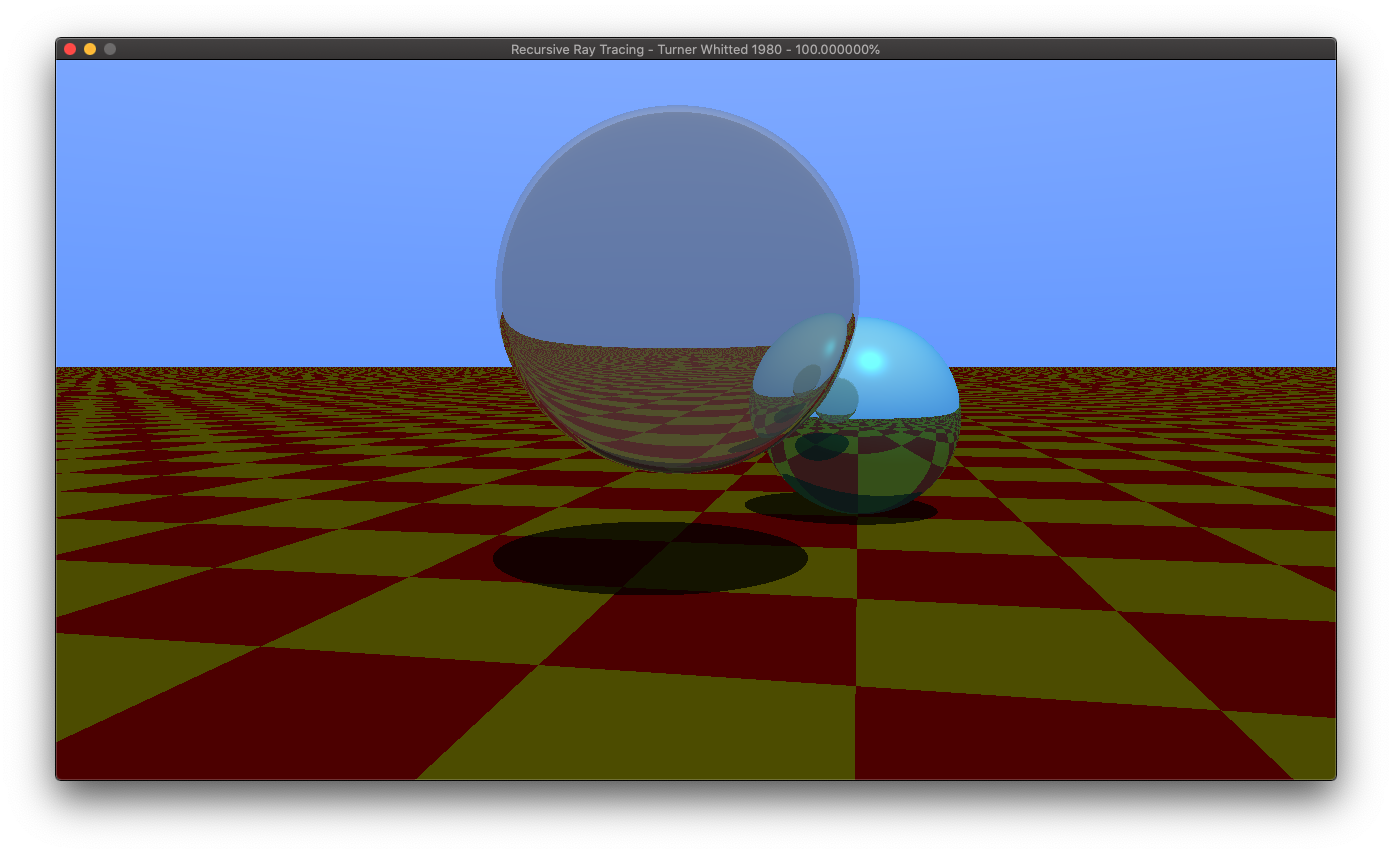
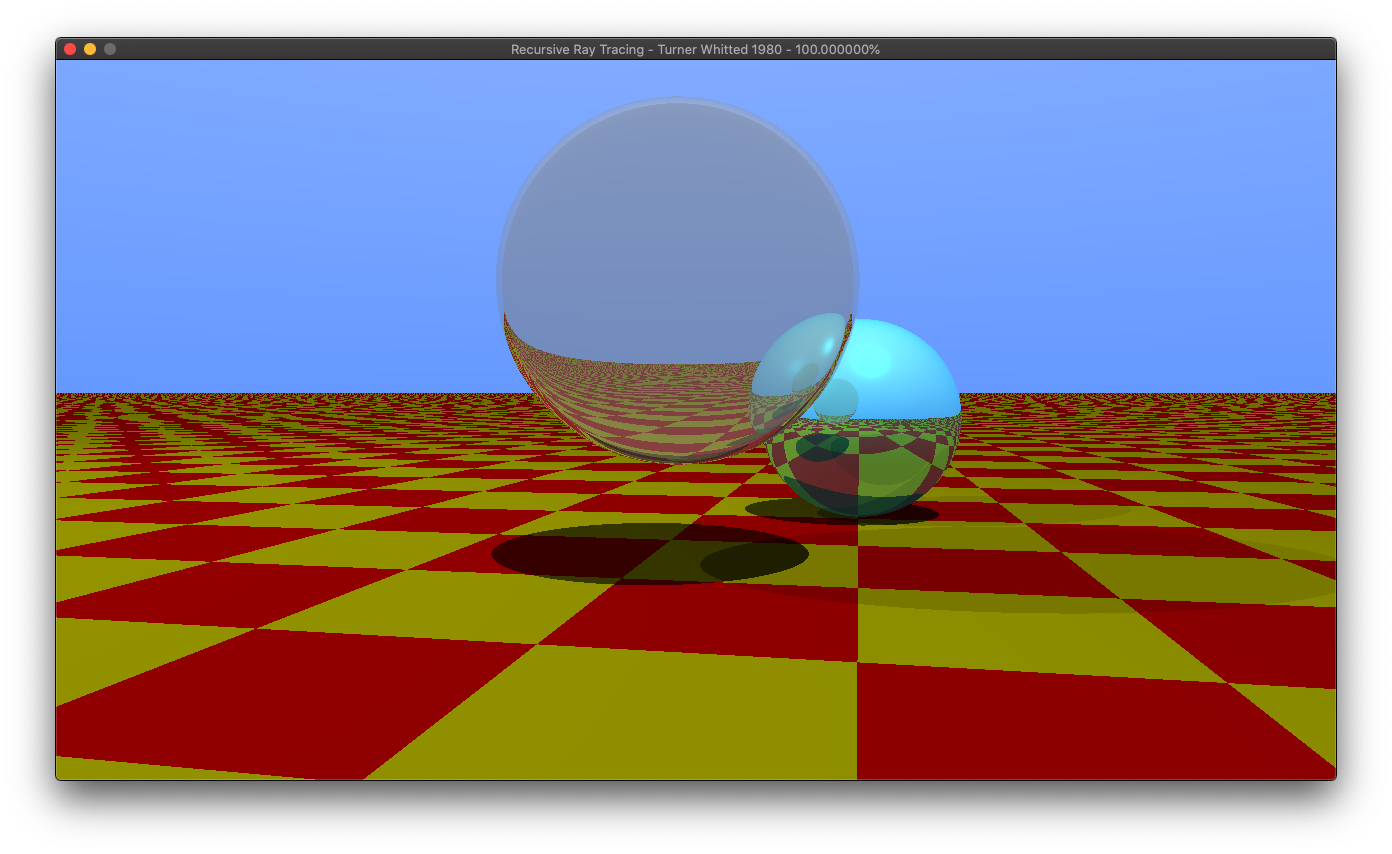
brighter light

diff --git a/1980.Whitted/code/Scene.h b/1980.Whitted/code/Scene.h
@@ -36,15 +36,14 @@ class Scene : public MyScene {
         .setColor(glm::vec3(1))
         .setParam(0.0f, 0.0f, 0.7f, 60, 1.034f);
 
-    // create lights
+// create lights
     auto pointLgt = std::make_shared<PointLight>(glm::vec3(-10, 10, -5));
-    pointLgt->intensity = 1.5f;
-    pointLgt->ambient = 0.2f;
+    pointLgt->intensity = 0.25f;
+    pointLgt->ambient = 0.05f;
+    mLights.emplace_back(pointLgt);
 
     auto dirLgt = std::make_shared<DirectionalLight>(glm::vec3(-1, -5, 2));
-    dirLgt->intensity = 0.5f;
-
-    // mLights.emplace_back(pointLgt);
+    dirLgt->intensity = .8f;
     mLights.emplace_back(dirLgt);
   }
 };

diff --git a/1980.Whitted/code/main.cpp b/1980.Whitted/code/main.cpp
@@ -19,7 +19,7 @@ int main(void) {
     auto scene = std::make_shared<Scene>();
     scene->init();
 
-    glm::vec3 eyePos(0, 1.5f, -8);
+    glm::vec3 eyePos(0, 1.25f, -8);
     glm::vec3 lookAt(-1.5f, 1, 0);
     auto camera = std::make_shared<PinholeCamera>();
     camera->setAspect((float)WINDOW_WIDTH / (float)WINDOW_HEIGHT)
